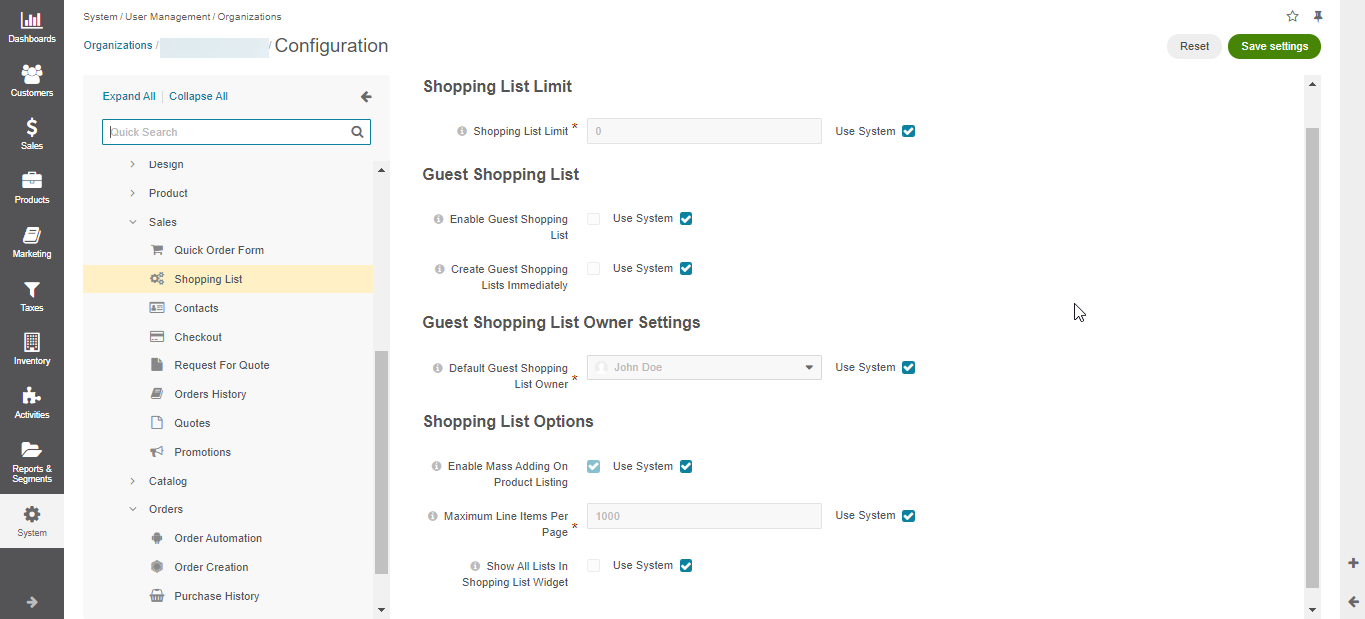
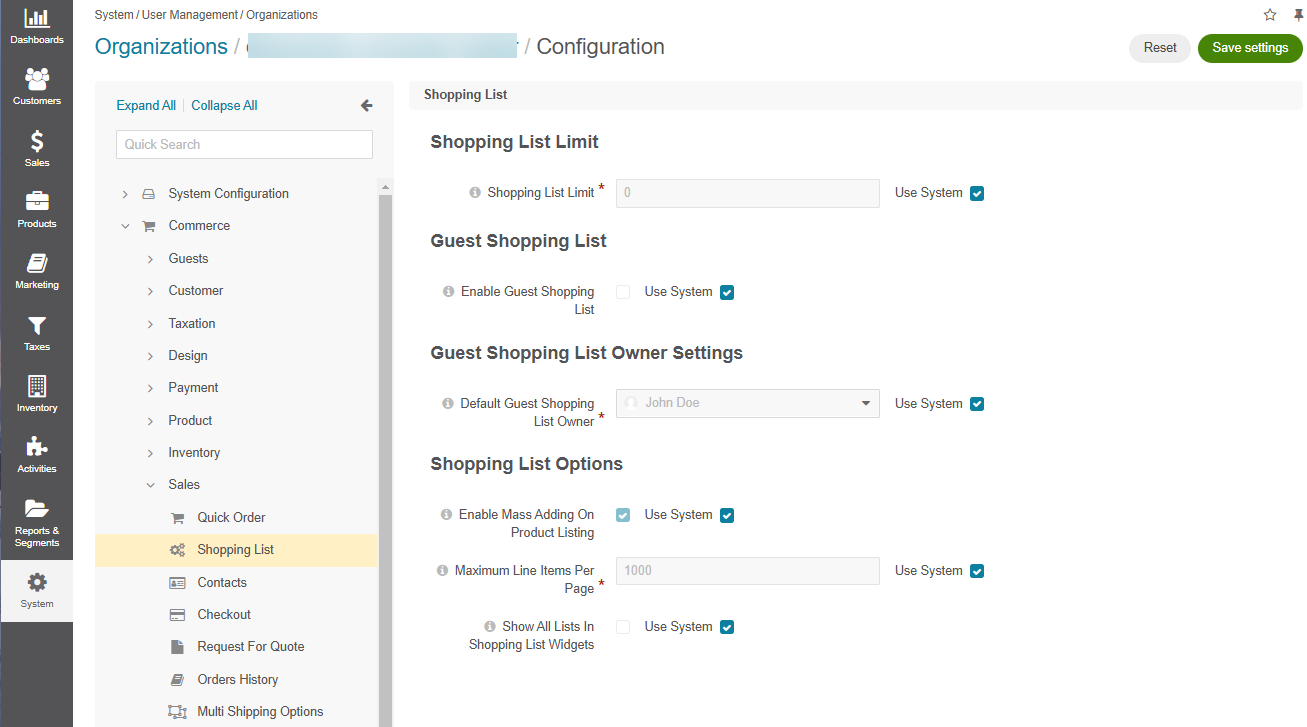
DOC-2302: Remove the Create Guest Shopping Lists Immediately feature (#40263)

diff --git a/user/back-office/system/websites/web-configuration/commerce/sales/website-guest-shopping-list.rst b/user/back-office/system/websites/web-configuration/commerce/sales/website-guest-shopping-list.rst
@@ -22,9 +22,7 @@ To configure them per website:
 
 4. Clear the **Use Organization** checkbox to change the organization-wide setting.
 5. In the **Shopping List Limit** section, set the number of shopping lists allowed per customer. The default value is zero. This means that no limit of shopping lists is applied.
-6. In the **Guest Shopping List** section, define the following options:
-
-   * **Enable Guest Shopping List** --- Set whether guests are allowed to create and manage shopping lists. By default, guest shopping lists are disabled. In addition, only 1 shopping list is available for guest customers.
+6. In the **Guest Shopping List** section, set whether guests are allowed to create and manage shopping lists. By default, guest shopping lists are disabled. In addition, only 1 shopping list is available for guest customers.
 
 7. In the **Guest Shopping List Owner Settings** section, select the user who will be the default owner of all guest shopping lists. Depending on the roles and permissions of the owner, guest shopping lists may or may not be viewed and managed by the users who are subordinated to the owner.
 

diff --git a/user/back-office/system/configuration/commerce/sales/global-shopping-list.rst b/user/back-office/system/configuration/commerce/sales/global-shopping-list.rst
@@ -28,9 +28,7 @@ To set the shopping list globally:
    .. note:: To update any of the options, clear *Use Default* checkbox first.
 
 3. In the **Shopping List Limit** section, set the number of shopping lists allowed per customer. The default value is zero. This means that no limit of shopping lists is applied.
-4. In the **Guest Shopping List** section, define the following options:
-
-   * **Enable Guest Shopping List** --- Set whether guests are allowed to create and manage shopping lists. By default, guest shopping lists are disabled. In addition, only 1 shopping list is available for guest customers.
+4. In the **Guest Shopping List** section, set whether guests are allowed to create and manage shopping lists. By default, guest shopping lists are disabled. In addition, only 1 shopping list is available for guest customers.
 
 5. In the **Guest Shopping List Owner Settings** section, select the user who will be the default owner of all guest shopping lists. Depending on the roles and permissions of the owner, guest shopping lists may or may not be viewed and managed by the users who are subordinated to the owner.
 

diff --git a/user/back-office/system/user-management/organizations/org-configuration/commerce/sales/organization-guest-shopping-list.rst b/user/back-office/system/user-management/organizations/org-configuration/commerce/sales/organization-guest-shopping-list.rst
@@ -22,9 +22,7 @@ To configure them per organization:
 
 4. Clear the **Use System** checkbox to change the global setting.
 5. In the **Shopping List Limit** section, set the number of shopping lists allowed per customer. The default value is zero. This means that no limit of shopping lists is applied.
-6. In the **Guest Shopping List** section, define the following options:
-
-   * **Enable Guest Shopping List** --- Set whether guests are allowed to create and manage shopping lists. By default, guest shopping lists are disabled. In addition, only 1 shopping list is available for guest customers.
+6. In the **Guest Shopping List** section, set whether guests are allowed to create and manage shopping lists. By default, guest shopping lists are disabled. In addition, only 1 shopping list is available for guest customers.
 
 7. In the **Guest Shopping List Owner Settings** section, select the user who will be the default owner of all guest shopping lists. Depending on the roles and permissions of the owner, guest shopping lists may or may not be viewed and managed by the users who are subordinated to the owner.
 
